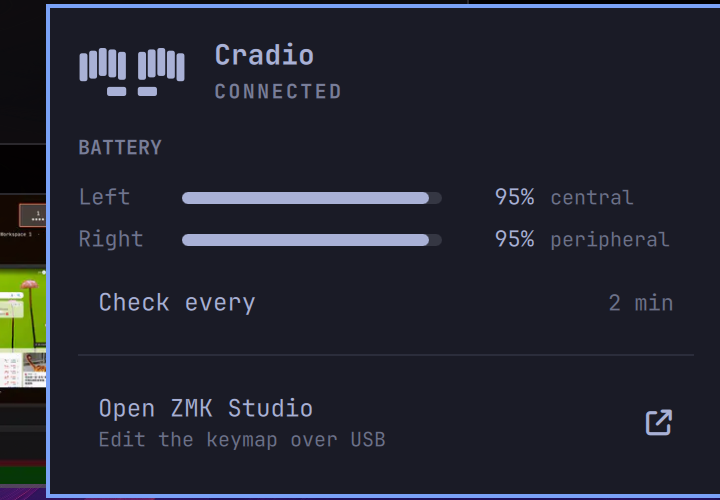
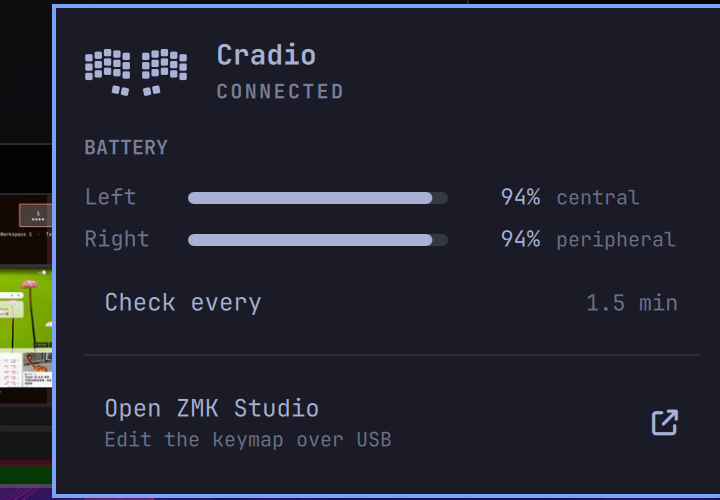
Two tilted thumb keys per half

diff --git a/SplitKeyboardIcon.qml b/SplitKeyboardIcon.qml
@@ -11,7 +11,8 @@ Item {
   property real iconSize: 16
   property color color: "#ffffff"
 
-  readonly property real keyUnit: iconSize / 5.0
+  // Stagger + three rows + gap + a tilted two-key thumb row.
+  readonly property real keyUnit: iconSize / 5.15
   readonly property real halfGap: keyUnit * 1.1
   implicitWidth: Math.ceil(keyUnit * 10 + halfGap)
   implicitHeight: iconSize
@@ -42,7 +43,8 @@ Item {
       var gap = root.halfGap                          // space between the halves
       var totalW = key * cols * 2 + gap
       var maxStagger = 0.55 * key
-      var totalH = maxStagger + key * rows + key * 0.5 + key * 0.95
+      var thumbTilt = 12 * Math.PI / 180                // thumb rows angle outward like a real split
+      var totalH = maxStagger + key * rows + key * 0.3 + key * 0.95 + key * 0.35
       var x0 = (width - totalW) / 2
       var y0 = (height - totalH) / 2
       // A one-pixel gutter separates the columns so the stagger reads as keys.
@@ -67,10 +69,19 @@ Item {
           }
         }
         // Thumb key sits under the two inner columns, pushed toward the middle.
-        var tw = key * 2.0 - gutter, th = key * 0.95
-        var tx = half === 0 ? hx + key * cols - tw - gutter / 2 : hx + gutter / 2
-        var ty = y0 + maxStagger + key * rows + key * 0.5
-        roundRect(ctx, tx, ty, tw, th, radius)
+        // Two thumb keys under the inner columns, the row rotated about its
+        // outer end so the inner key sits lower, as on a Sweep.
+        var th = key * 0.95
+        var ty = y0 + maxStagger + key * rows + key * 0.3
+        var pivotX = half === 0 ? hx + key * (cols - 2) : hx + key * 2
+        ctx.save()
+        ctx.translate(pivotX, ty)
+        ctx.rotate(half === 0 ? thumbTilt : -thumbTilt)
+        for (var t = 0; t < 2; t++) {
+          var tx = half === 0 ? t * key : -(t + 1) * key
+          roundRect(ctx, tx + gutter / 2, gutter / 2, key - gutter, th - gutter / 2, radius)
+        }
+        ctx.restore()
       }
     }
 
